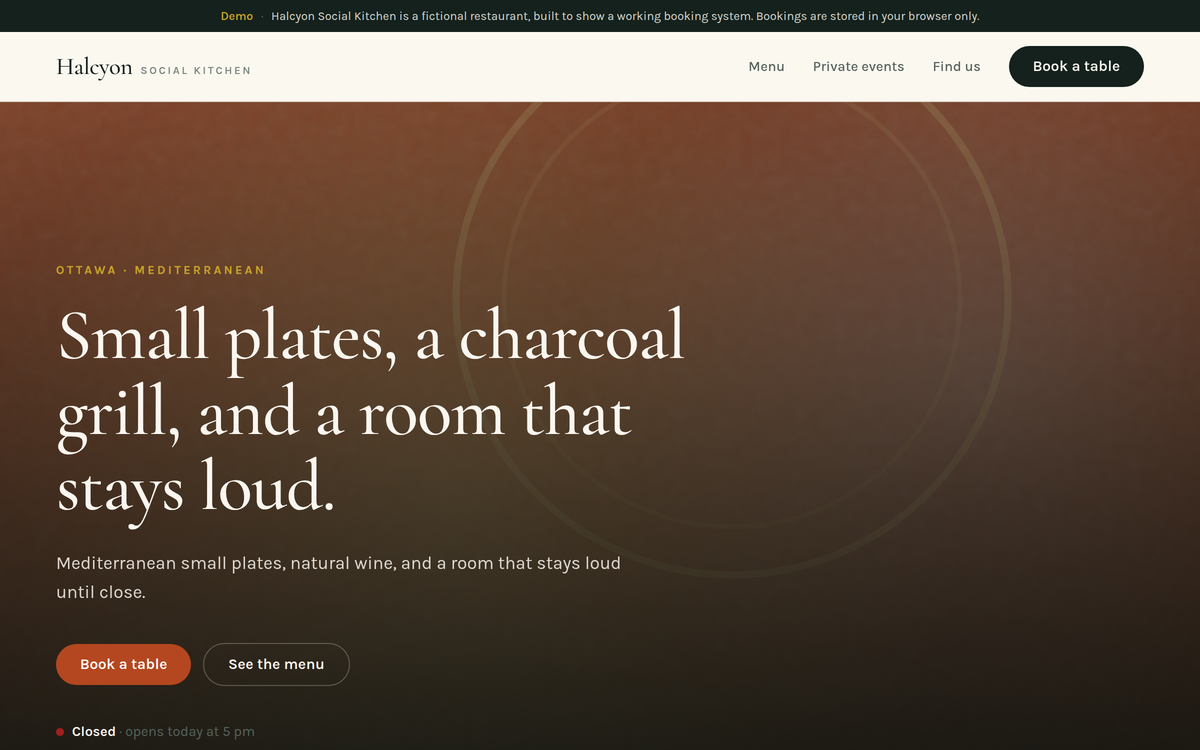
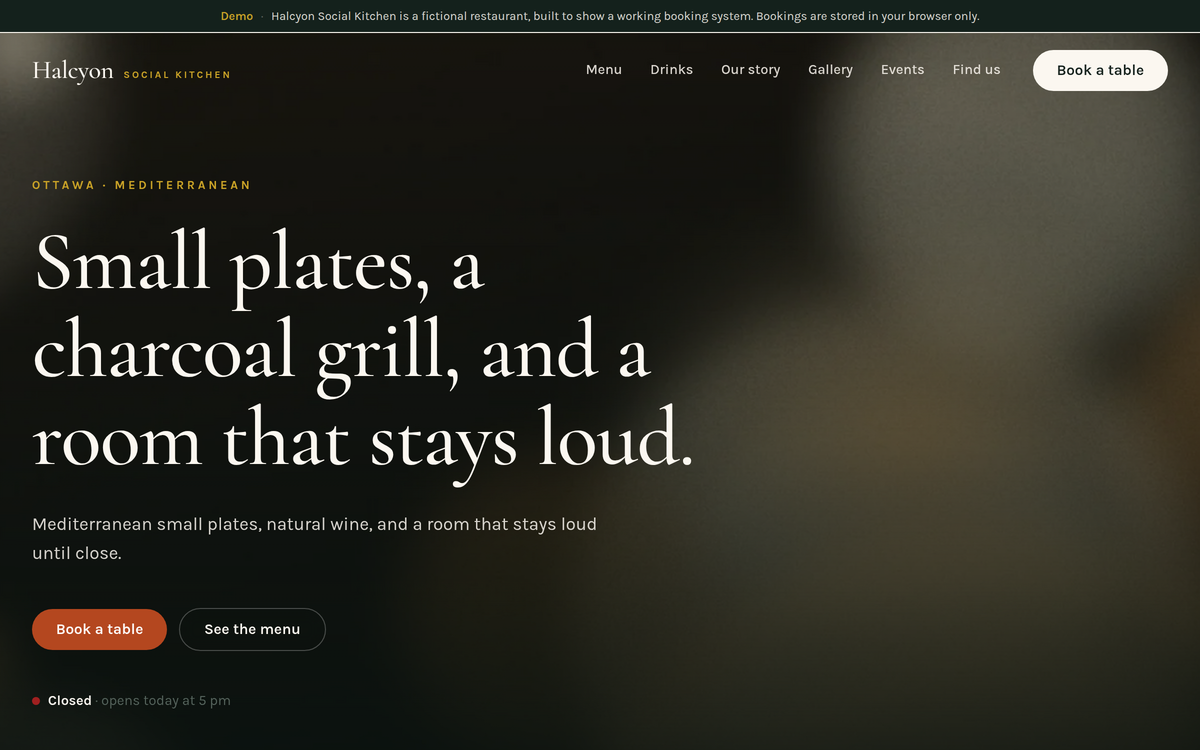
Refresh the Halcyon thumbnail after the redesign
The demo now has ten pages, generated photography and a transparent header
over the hero, so the card was showing a screenshot of a site that no longer
looks like that. The alt text described the old shot too — it named the
availability strip, which is no longer what the frame contains.

Claude-Session: https://claude.ai/code/session_017V5RB2pzhH35CUm4sFy3Yd

diff --git a/src/data/fr.ts b/src/data/fr.ts
@@ -92,7 +92,7 @@ export const fr: Content = {
         problem:
           "La plupart des sites de restaurant sont superbes jusqu'au moment de réserver : on vous donne alors un numéro de téléphone et les heures où quelqu'un y répond. Celui-ci prend la réservation : disponibilités en direct, table attribuée à partir du vrai plan de salle, code d'annulation, et un panneau d'administration d'où l'équipe gère le service.",
         imageAlt:
-          "Le système de réservation de Halcyon Social Kitchen, montrant la page d'accueil et les tables encore libres ce soir.",
+          "La page d'accueil de Halcyon Social Kitchen : une photo sombre en bandeau, le nom du restaurant et un bouton Réserver une table.",
         features: [
           "Disponibilités en direct",
           "Réservation en ligne",

diff --git a/src/data/en.ts b/src/data/en.ts
@@ -90,7 +90,7 @@ export const en: Content = {
         problem:
           "Most restaurant sites are beautiful until you try to book, and then they hand you a phone number and the hours somebody answers it. This one takes the booking: live availability, a table assigned from the real floor plan, a code to cancel with, and an admin panel the floor team runs the service from.",
         imageAlt:
-          "The Halcyon Social Kitchen booking system, showing the home page with tonight's remaining tables listed across it.",
+          "The Halcyon Social Kitchen home page: a dark hero photograph, the restaurant's name, and a Book a table button.",
         features: [
           "Live availability",
           "Online booking",
